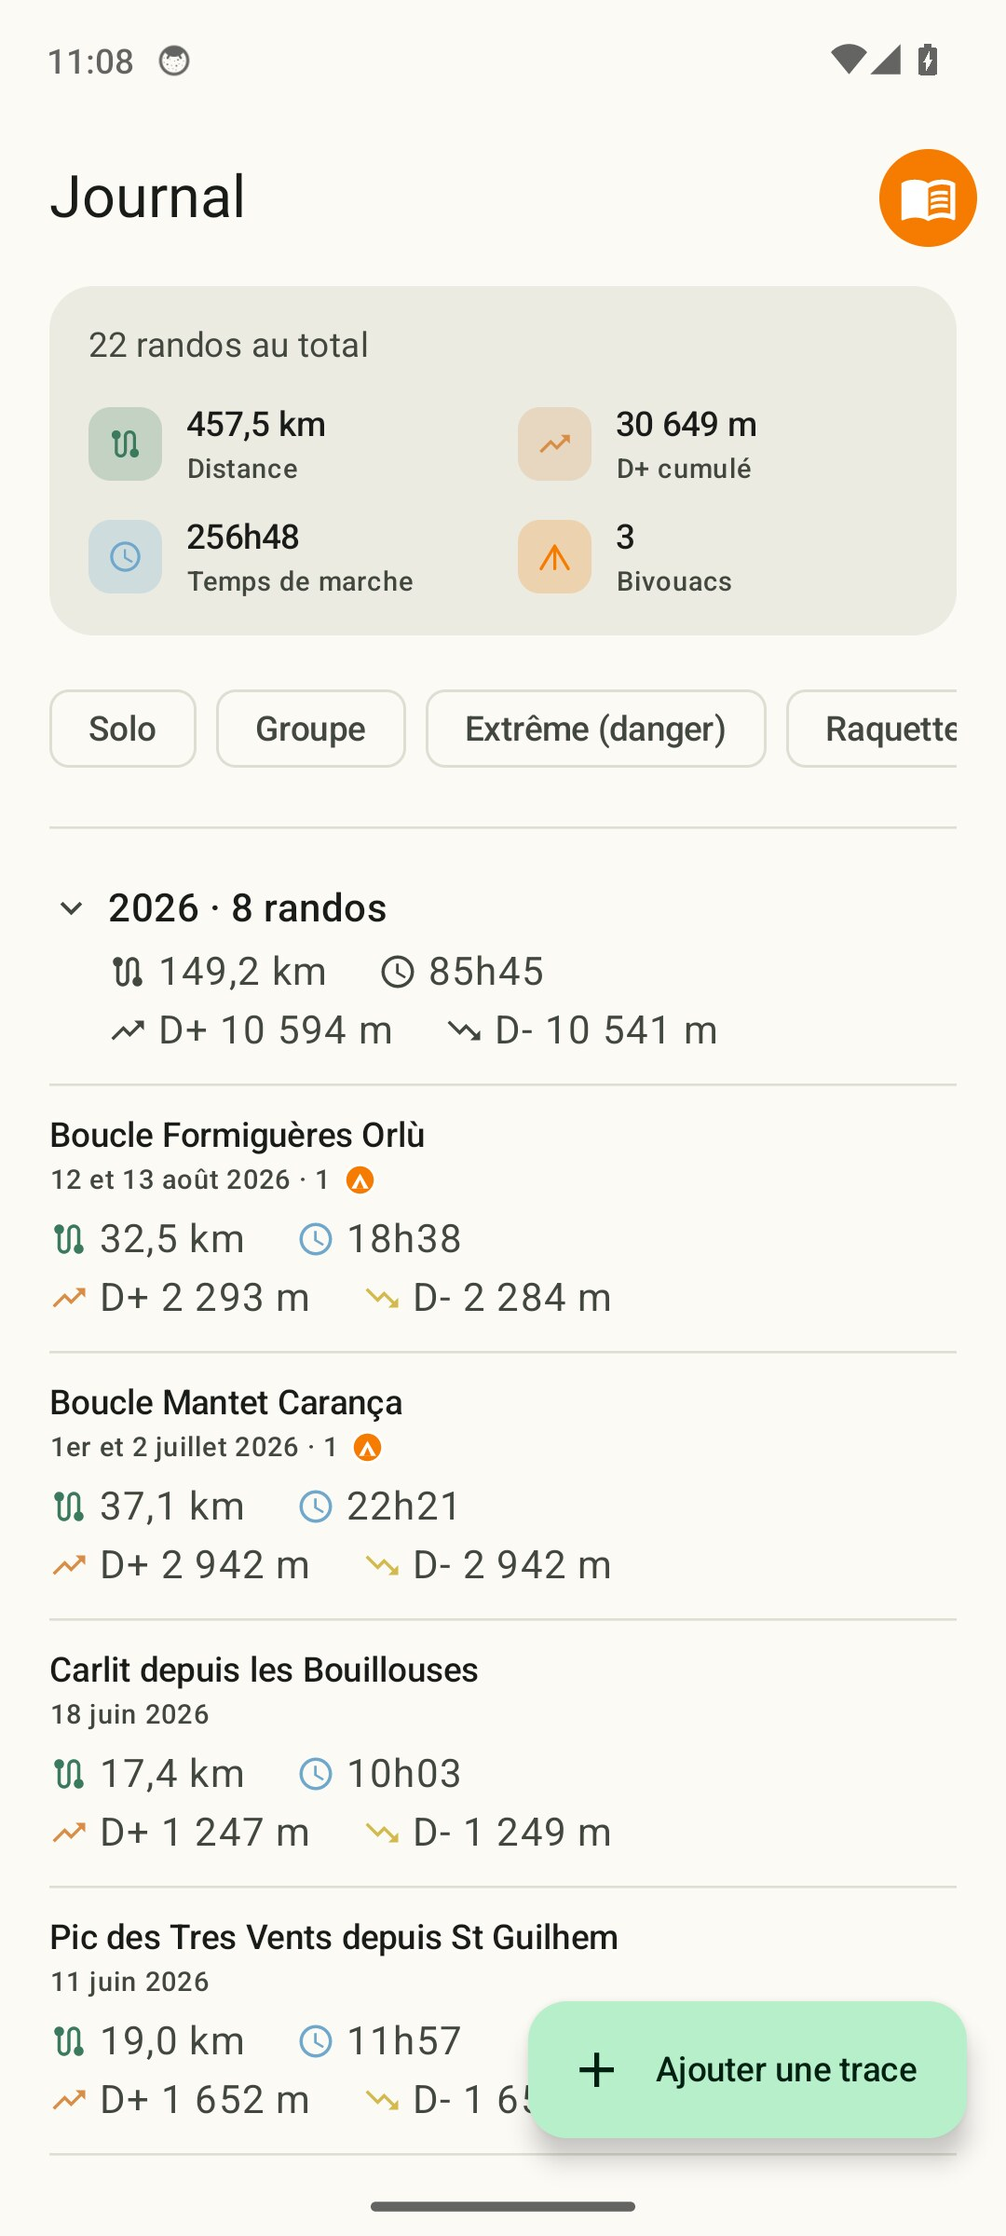
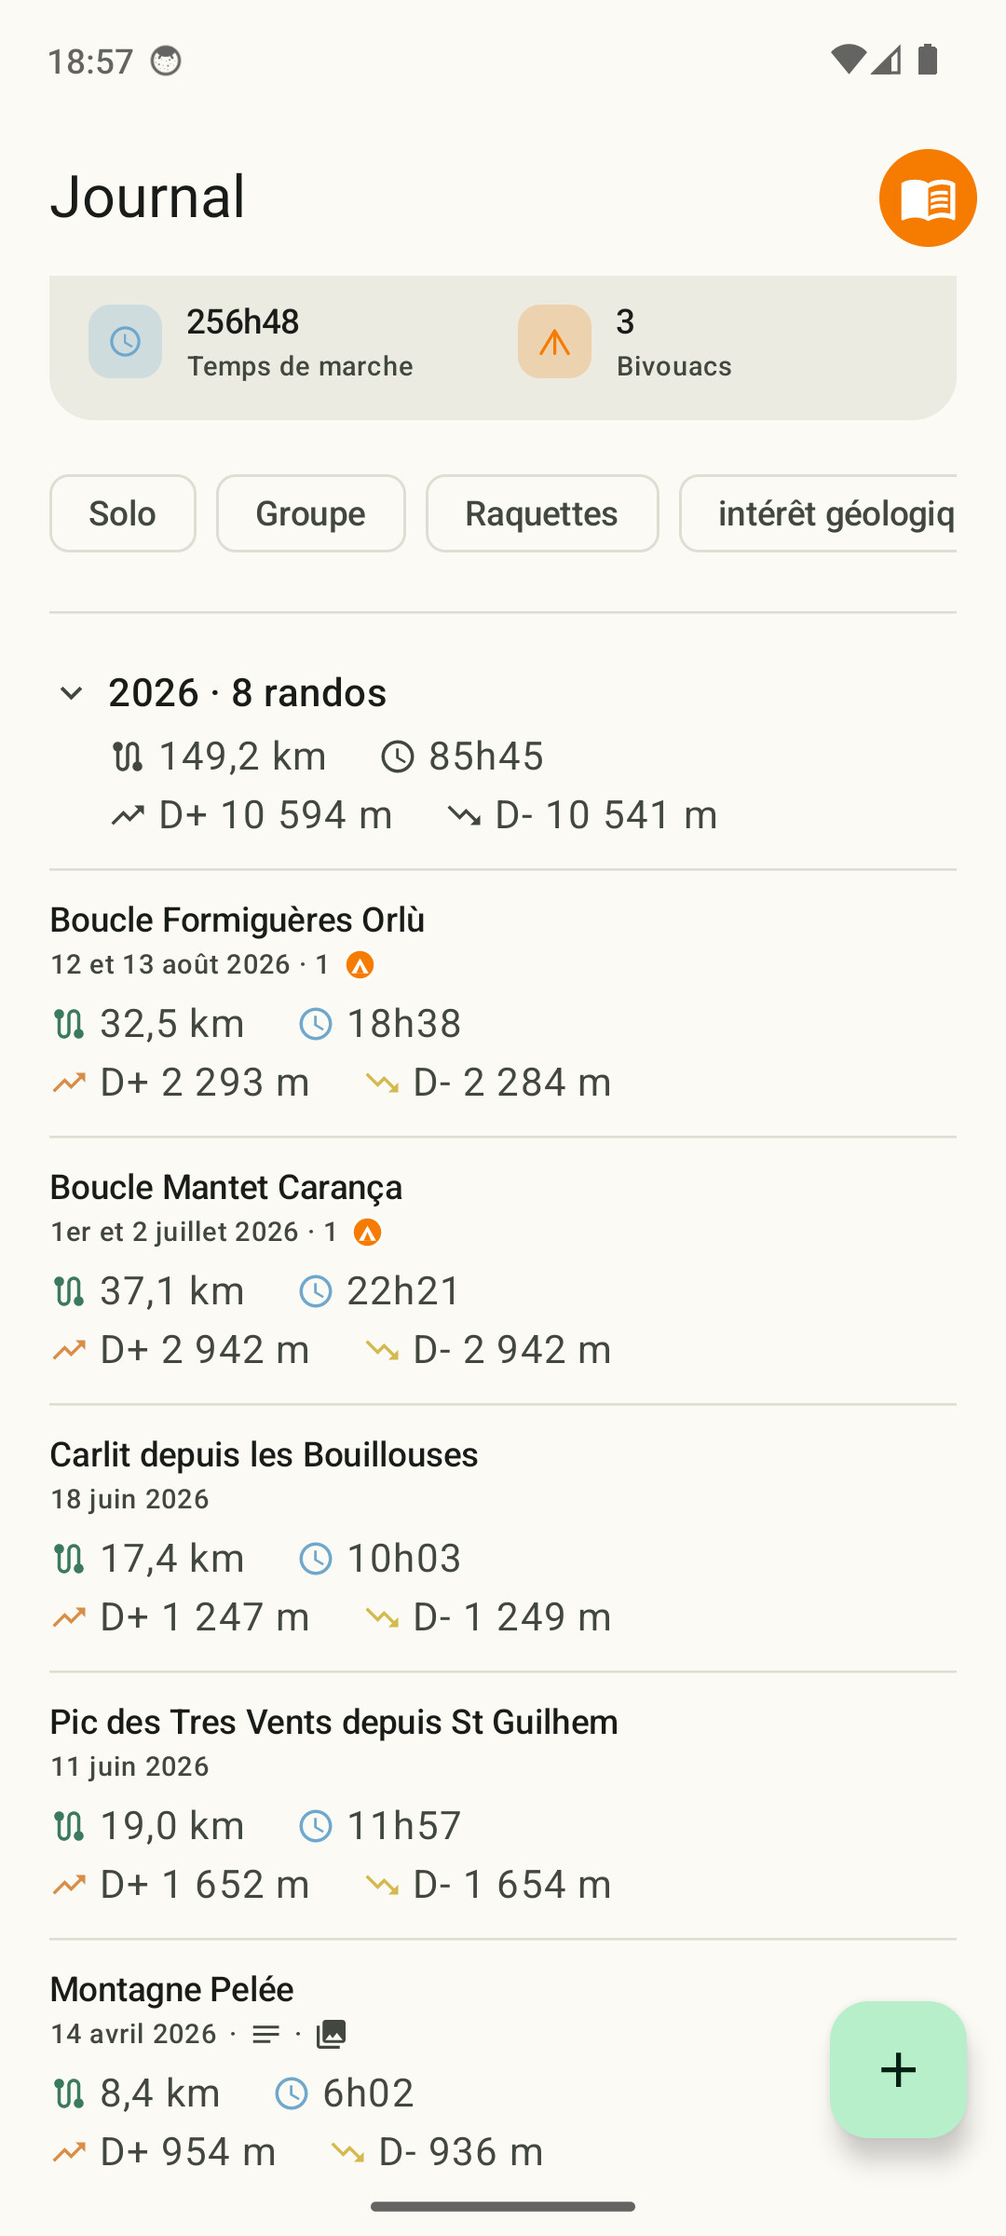
Release 2.3.0 : version, notes, description et captures
versionCode 11 / versionName 2.3.0, section V2.3.0 des notes de version,
changelog F-Droid 11.txt, description du store (manipulation et stockage des
photos), README (fonctionnalites, FAQ stockage, table de captures) et jeu de
captures refait sur l'emulateur avec la base de demo : liste du Journal avec
pictos, reglages photos, bulle avec legende, editeur Ajuster, mode placement,
espace utilise.

diff --git a/README.md b/README.md
@@ -10,46 +10,63 @@ journaliers (distance, dénivelé, durée estimée) qui se met à jour automatiq
   <tr>
     <td width="50%" align="center">
       <img src="screenshots/01_planification_carte.jpg" width="100%" alt="Planification : trace ouverte sur fond de carte Randonnée, profil altimétrique"><br>
-      <sub>Planification — trace sur fond de carte, profil altimétrique</sub>
+      <sub>Planification : trace sur fond de carte, profil altimétrique</sub>
     </td>
     <td width="50%" align="center">
       <img src="screenshots/02_planification_details.jpg" width="100%" alt="Planification : tiroir de détail, segments par jour"><br>
-      <sub>Planification — détail des segments par jour</sub>
+      <sub>Planification : détail des segments par jour</sub>
     </td>
   </tr>
   <tr>
     <td width="50%" align="center">
       <img src="screenshots/03_journal_liste.jpg" width="100%" alt="Journal : liste chronologique par année"><br>
-      <sub>Journal — liste chronologique par année</sub>
+      <sub>Journal : liste chronologique par année</sub>
     </td>
     <td width="50%" align="center">
       <img src="screenshots/04_journal_detail.jpg" width="100%" alt="Journal : détail d'une trace, photos, tags et note"><br>
-      <sub>Journal — détail d'une trace : photos, tags et note</sub>
+      <sub>Journal : détail d'une trace, photos, tags et note</sub>
     </td>
   </tr>
   <tr>
     <td width="50%" align="center">
       <img src="screenshots/07_journal_photos_carte.jpg" width="100%" alt="Journal : photos positionnées sur la trace, marqueurs sur la carte"><br>
-      <sub>Journal — photos positionnées sur la trace</sub>
+      <sub>Journal : photos positionnées sur la trace</sub>
     </td>
     <td width="50%" align="center">
-      <img src="screenshots/08_journal_photo_bulle.jpg" width="100%" alt="Journal : bulle photo avec distance, altitude et position sur le profil"><br>
-      <sub>Journal — bulle photo, position reportée sur le profil</sub>
+      <img src="screenshots/08_journal_photo_bulle.jpg" width="100%" alt="Journal : bulle photo avec distance, altitude, heure et légende"><br>
+      <sub>Journal : bulle photo, distance, altitude et légende</sub>
+    </td>
+  </tr>
+  <tr>
+    <td width="50%" align="center">
+      <img src="screenshots/09_ajuster.jpg" width="100%" alt="Journal : éditeur Ajuster, rotation et recadrage non destructifs d'une photo"><br>
+      <sub>Journal : Ajuster, rotation et recadrage non destructifs</sub>
+    </td>
+    <td width="50%" align="center">
+      <img src="screenshots/10_placement.jpg" width="100%" alt="Journal : repositionnement d'une photo par glisser le long de la trace, profil qui suit"><br>
+      <sub>Journal : repositionner une photo le long de la trace</sub>
     </td>
   </tr>
   <tr>
     <td width="50%" align="center">
       <img src="screenshots/05_bilan.jpg" width="100%" alt="Bilan : totaux, graphique de progression et records"><br>
-      <sub>Bilan — totaux, progression et records</sub>
+      <sub>Bilan : totaux, progression et records</sub>
     </td>
     <td width="50%" align="center">
-      <img src="screenshots/06_reglages.jpg" width="100%" alt="Réglages : photos du Journal, sauvegarde et crédits"><br>
-      <sub>Réglages — photos du Journal, sauvegarde, crédits</sub>
+      <img src="screenshots/06_reglages.jpg" width="100%" alt="Réglages : photos du Journal et mode de stockage, qualité d'origine ou poids allégé"><br>
+      <sub>Réglages : photos du Journal, mode de stockage</sub>
     </td>
+  </tr>
+  <tr>
+    <td width="50%" align="center">
+      <img src="screenshots/11_espace_utilise.jpg" width="100%" alt="Réglages : espace utilisé par les traces, les photos et la base, recompression proposée"><br>
+      <sub>Réglages : espace utilisé, recompression des photos</sub>
+    </td>
+    <td width="50%"></td>
   </tr>
 </table>
 
-## Fonctionnalités (V2.2.1)
+## Fonctionnalités (V2.3.0)
 
 **Planification :**
 
@@ -69,8 +86,14 @@ journaliers (distance, dénivelé, durée estimée) qui se met à jour automatiq
   d'une même sortie), liste chronologique par année, détail en lecture seule avec carte et profil
 - Note libre et tags par trace, filtrage par tag ; dupliquer une trace du Journal vers Planification
 - Photos associées à une randonnée : positionnées sur la trace grâce à leurs données GPS, marqueurs
-  sur la carte, carrousel dans la bulle, galerie de la sortie et visionneuse plein écran —
+  sur la carte, carrousel dans la bulle, galerie de la sortie et visionneuse plein écran ;
   fonctionnalité débrayable dans les Réglages (voir la FAQ pour les permissions)
+- Manipulation des photos : rotation et recadrage non destructifs, légende, repositionnement par
+  glisser le long de la trace, retour à la position GPS, retrait de la carte ; agrandissement des
+  candidates à l'import
+- Deux modes de stockage des photos : "Qualité d'origine" ou "Poids allégé" (copie réduite à
+  2048 px, environ dix fois plus légère), recompression du stock existant, écran de l'espace
+  utilisé (voir la FAQ)
 
 **Bilan :**
 
@@ -82,7 +105,8 @@ journaliers (distance, dénivelé, durée estimée) qui se met à jour automatiq
 
 - Vitesse personnalisée pour l'estimation de durée (manuelle, automatique, ou par sélection de
   traces), sauvegarde et restauration complètes des données, activation/désactivation des
-  fonctionnalités non libres et de la gestion des photos, purge des photos importées
+  fonctionnalités non libres et de la gestion des photos, mode de stockage des photos, espace
+  utilisé, purge des photos importées
 
 Détail complet des fonctionnalités par version, et limitations connues : [RELEASE_NOTES.md](RELEASE_NOTES.md).
 
@@ -93,7 +117,7 @@ Détail complet des fonctionnalités par version, et limitations connues : [RELE
 Oui, en partie. Les fonds de carte déjà consultés restent disponibles hors connexion : dès qu'une
 zone a été affichée une fois (par exemple en préparant ta rando chez toi), ses tuiles restent en
 cache sur le téléphone et se rechargent sans réseau. C'est pratique une fois sur le terrain, là où
-tu n'as souvent plus de réseau mobile — tu peux revoir la carte des zones déjà consultées, positionner
+tu n'as souvent plus de réseau mobile : tu peux revoir la carte des zones déjà consultées, positionner
 ou ajuster tes bivouacs, sans avoir besoin de connexion. Seules les zones jamais affichées auparavant
 resteront vides tant que tu n'as pas de réseau.
 
@@ -101,18 +125,18 @@ resteront vides tant que tu n'as pas de réseau.
 
 Bivouac peut calculer automatiquement ta vitesse de marche à plat et ta pénalité de dénivelé à
 partir de tes randonnées déjà présentes dans le Journal, plutôt que de te demander de les saisir
-toi-même. Ce calcul répartit le temps mis sur une rando entre deux facteurs distincts — la distance
-parcourue à plat, et le dénivelé grimpé — un peu comme résoudre une équation à deux inconnues. Avec
+toi-même. Ce calcul répartit le temps mis sur une rando entre deux facteurs distincts, la distance
+parcourue à plat et le dénivelé grimpé, un peu comme résoudre une équation à deux inconnues. Avec
 une seule randonnée, il n'y a pas assez d'information pour les séparer : impossible de savoir si tu
 as mis du temps parce que le terrain était plat mais long, ou court mais très pentu. Il faut au
-moins deux randonnées différentes pour que le calcul ait un sens — c'est pourquoi les modes Auto et
+moins deux randonnées différentes pour que le calcul ait un sens : c'est pourquoi les modes Auto et
 Sélection restent grisés tant que ton Journal (ou ta sélection de traces) n'en contient pas au moins
 deux.
 
 ### Comment le calcul automatique de vitesse fonctionne-t-il, et pourquoi peut-il être optimiste ?
 
 Plutôt que de faire une moyenne globale par rando, Bivouac découpe chacune de tes randonnées en
-petits tronçons pour séparer ce qui relève de l'allure à plat de ce qui relève du dénivelé — plus
+petits tronçons pour séparer ce qui relève de l'allure à plat de ce qui relève du dénivelé, plus
 précis qu'une simple moyenne, surtout si tes randos varient beaucoup en profil. Les moments passés
 à l'arrêt (pause, photo, casse-croûte) sont automatiquement écartés de ce calcul, pour qu'une longue
 pause ne fasse pas croire que tu marches lentement.
@@ -120,12 +144,12 @@ pause ne fasse pas croire que tu marches lentement.
 Ce même souci de précision explique un choix qui peut surprendre : la pénalité de dénivelé ne
 distingue pas montée et descente. Sur des boucles (l'immense majorité des randos), les deux sont si
 étroitement corrélées qu'un facteur séparé n'apporterait aucune précision réelle, juste du bruit
-statistique sur un chiffre supplémentaire — mieux vaut un seul facteur robuste que deux
+statistique sur un chiffre supplémentaire : mieux vaut un seul facteur robuste que deux
 approximatifs.
 
 Pour la marge de pause justement : les Réglages (Vitesse personnalisée) proposent un curseur dédié
 qui ajoute une provision de temps aux estimations, réglable manuellement ou mesurée automatiquement
-sur le Journal/la sélection selon le mode choisi — sans lui, les estimations tendent à être
+sur le Journal/la sélection selon le mode choisi : sans lui, les estimations tendent à être
 optimistes, l'écart grandissant avec le nombre de pauses prévisibles.
 
 ### Pourquoi l'app demande-t-elle l'accès aux photos ET à leur localisation ?
@@ -135,10 +159,22 @@ Or le sélecteur de photos standard d'Android, pensé pour que les apps n'accèd
 minimum, supprime justement cette position des photos qu'il transmet. Bivouac utilise donc son
 propre écran de sélection, ce qui demande deux permissions : la lecture des images (celle que
 demande toute app de galerie), et l'accès à la localisation des médias (celle qui préserve la
-position GPS). Les deux ne sont demandées qu'au premier usage de la fonctionnalité photos — jamais
-si tu ne t'en sers pas — et l'accès partiel d'Android 14+ ("autoriser seulement certaines photos")
+position GPS). Les deux ne sont demandées qu'au premier usage de la fonctionnalité photos, jamais
+si tu ne t'en sers pas, et l'accès partiel d'Android 14+ ("autoriser seulement certaines photos")
 est géré. La fonctionnalité est entièrement désactivable dans les Réglages, et les photos ne
 quittent jamais l'appareil.
+
+### Qualité d'origine ou poids allégé : quel mode de stockage des photos choisir ?
+
+Bivouac garde sa propre copie de chaque photo associée à une randonnée, pour ne pas dépendre de
+la galerie. En "Qualité d'origine", cette copie est identique à la photo de la galerie (souvent
+3 à 5 Mo par photo). En "Poids allégé", elle est réduite à 2048 px de côté, environ dix fois plus
+légère, ce qui reste largement suffisant pour l'écran d'un téléphone. Dans ce mode, la
+visionneuse plein écran va chercher l'original dans la galerie tant qu'il y est encore, donc rien
+n'est perdu à l'affichage. Les nouvelles installations démarrent en poids allégé ; si tu avais
+déjà des photos, l'app te propose le choix au premier lancement, et les photos déjà importées
+peuvent être recompressées depuis les Réglages. L'écran "Espace utilisé" des Réglages montre ce
+que prennent les traces et les photos.
 
 ### Mes randonnées partent-elles dans une sauvegarde cloud Google ?
 
@@ -175,12 +211,12 @@ Ce projet est distribué sous licence [GPLv3](LICENSE).
 ## Pourquoi open source ?
 
 Ce projet a démarré comme un outil perso pour ne plus perdre mes bivouacs sur un coin de carte, et
-il a pris de l'ampleur sans prévenir. Ne vous attendez pas à du code exemplaire, mais ça tourne —
+il a pris de l'ampleur sans prévenir. Ne vous attendez pas à du code exemplaire, mais ça tourne,
 et si ça peut servir à quelqu'un d'autre, tant mieux. Indulgence et retours bienvenus.
 
 ## Statut
 
-V2.2.1 fonctionnelle. Développement actif.
+V2.3.0 fonctionnelle. Développement actif.
 
 ## Développement
 

diff --git a/RELEASE_NOTES.md b/RELEASE_NOTES.md
@@ -1,18 +1,66 @@
-# Bivouac — Notes de version
+# Bivouac : notes de version
+
+## V2.3.0
+
+**Journal, photos : stockage à deux modes (nouveau) :**
+
+- Choix dans les Réglages entre "Qualité d'origine" (copie identique à la photo de la galerie) et
+  "Poids allégé" (copie réduite à 2048 px, environ dix fois plus légère). Les nouvelles
+  installations démarrent en poids allégé ; les installations qui ont déjà des photos reçoivent une
+  proposition au premier lancement (choisir maintenant, plus tard, ou ne plus voir)
+- Recompression des photos déjà importées : proposée à la bascule vers le mode allégé, disponible
+  ensuite dans les Réglages. Chaque photo est remplacée de façon sûre (nouveau fichier, bascule,
+  puis suppression de l'ancien)
+- En mode allégé, la visionneuse plein écran affiche l'original de la galerie quand il est encore
+  sur le téléphone (montée en qualité transparente)
+- Écran "Espace utilisé" dans les Réglages : traces, photos, reste
+- Photos manquantes après une restauration : retrouvées automatiquement dans la galerie quand
+  l'original y est encore
+
+**Journal, photos : manipulation (nouveau) :**
+
+- "Ajuster" une photo : rotation par quarts de tour et recadrage (coins à proportions conservées,
+  côtés libres, déplacement du cadre), non destructif et appliqué à toutes les vues ; bouton
+  Réinitialiser
+- Visionneuse plein écran en mode édition : barre d'actions Ajuster / Position / Supprimer, légende
+  modifiable d'un tap
+- Position : repositionner une photo en la faisant glisser le long de la trace (le tiroir descend
+  sur la carte, le profil altimétrique suit, Annuler ou Terminé), revenir à la position GPS ou à la
+  position déduite de l'heure de prise de vue, retirer une photo de la carte et l'y replacer (badge
+  dans la grille)
+- Légende par photo, affichée dans la visionneuse et dans la bulle de la carte
+- Import : agrandir une photo candidate avant de la choisir, sélection par tap dans la visionneuse
+- Un tap sur un groupe de photos sur la carte ouvre tout le groupe dans le carrousel de la bulle,
+  et le curseur suit le balayage
+
+**Améliorations :**
+
+- Flèches de direction recalculées selon le zoom et le cadrage, sur tous les jours d'un trek
+- Pictos "a une note" et "a des photos" sur chaque ligne du Journal
+- Dialogue dédié quand une duplication vers Planification attend derrière la fermeture d'une trace
+
+**Bugfixes :**
+
+- Plusieurs fichiers GPX partagés vers Planification : le choix est désactivé au lieu de perdre en
+  silence tous les fichiers après le premier
+- Correction de la double instance de l'app quand un GPX est ouvert depuis une autre application
+- Désactivation de la connexion réseau au premier démarrage sans aucune interaction (une tuile était
+  chargée pour une carte encore invisible)
+- Badges de vignette (position approximative, retirée de la carte) désormais lisibles
 
 ## V2.2.1
 
 **Bugfix critique :**
 
 - Sur Android 8 à 13, l'import d'une trace GPX échouait systématiquement ("Trace incorrecte ou
-  fichier illisible"), rendant l'app inutilisable sur ces versions — l'app ne fonctionnait
+  fichier illisible"), rendant l'app inutilisable sur ces versions : l'app ne fonctionnait
   en pratique que sur Android 14+. Corrigé (bibliothèque de lecture GPX s'appuyant sur une API
   Java absente des Android antérieurs, désormais fournie par l'app elle-même). Merci au testeur
   bénévole de la revue F-Droid qui a découvert et documenté le problème.
 
 ## V2.2.0
 
-**Journal — photos (nouveau) :**
+**Journal, photos (nouveau) :**
 
 - Associer des photos de la galerie du téléphone à une randonnée du Journal : positionnées
   automatiquement sur la trace grâce à leurs données GPS, marqueurs sur la carte, carrousel à
@@ -39,13 +87,13 @@
 **Bugfixes :**
 
 - Le profil d'altitude d'une trace restait entièrement vide dès qu'un seul point du GPX n'avait
-  pas d'altitude — les trous sont désormais comblés par interpolation
+  pas d'altitude : les trous sont désormais comblés par interpolation
 
 ## V2.1.0
 
 **Bilan (nouveau) :**
 
-- Nouvel onglet Bilan : vue d'ensemble du Journal — totaux cumulés, graphique de progression
+- Nouvel onglet Bilan : vue d'ensemble du Journal : totaux cumulés, graphique de progression
   mensuelle (sorties, km, D+, vitesse, bivouacs) sur tout l'historique, et tes records personnels
   (km-effort, vitesse ascensionnelle, altitude max atteinte, bivouac le plus haut, plus gros trek...).
   Chaque record renvoie directement à la sortie concernée dans le Journal.
@@ -60,7 +108,7 @@
 - Planification : au tout premier lancement de l'app, l'écran "Aucune trace en préparation" pouvait
   s'afficher brièvement même quand une session précédente était sur le point d'être restaurée
 - Planification : après avoir tué puis relancé l'app sur une trace déjà enregistrée en banque, fermer
-  l'écran redemandait à tort une confirmation de sauvegarde — et sauvegarder à cette invite dupliquait
+  l'écran redemandait à tort une confirmation de sauvegarde, et sauvegarder à cette invite dupliquait
   la trace au lieu de simplement fermer
 
 ## V2.0.2
@@ -74,14 +122,14 @@
 **Bugfixes :**
 
 - Le calcul automatique de pénalité D+ (Auto/Sélection) pouvait être surestimé quand un arrêt était
-  pris en pleine montée — désormais exclu du calcul, comme c'était déjà le cas sur terrain plat
+  pris en pleine montée : désormais exclu du calcul, comme c'était déjà le cas sur terrain plat
 - Duplication d'une trace du Journal vers Planification : le dialogue de renommage pouvait se
   refermer tout seul avant d'avoir pu taper un nom
 - Planification : un trek multi-jours dupliqué depuis le Journal, dont l'enregistrement s'était
   arrêté loin du bivouac un soir, pouvait afficher un trajet fictif sur la carte et gonfler la
-  distance totale affichée — même correctif que celui déjà appliqué au Journal
+  distance totale affichée : même correctif que celui déjà appliqué au Journal
 - Une trace mono-jour sans aucun point de bivouac posé n'avait aucun moyen d'export GPX depuis
-  Planification — ajouté au menu de la trace
+  Planification, ajouté au menu de la trace
 - Ouvrir une trace de la banque devenue illisible affichait un écran d'erreur qui faisait
   disparaître le reste de la liste ; affiche désormais un message ponctuel, sans perturber le reste
 - Journal : mise en page de la ligne de bivouac (police des heures, icône) alignée sur le reste de
@@ -95,7 +143,7 @@
 
 - Le calcul automatique de vitesse/pénalité D+ (Réglages, mode Auto ou Sélection) pouvait varier
   fortement selon les randonnées présentes dans le Journal ou la sélection, surtout avec peu de
-  randonnées (une dizaine ou moins) — corrigé par un calcul plus robuste, à l'intérieur de chaque
+  randonnées (une dizaine ou moins) : corrigé par un calcul plus robuste, à l'intérieur de chaque
   randonnée plutôt qu'en comparant les randonnées entre elles.
 
 ## V2.0
@@ -197,7 +245,7 @@
 
 - Import d'une trace directement depuis une autre application (ouverture d'un fichier `.gpx` ou
   partage vers l'app), en plus du sélecteur système
-- Sélecteur de fonds de carte (Standard, Randonnée OpenTopoMap, Satellite Esri World Imagery —
+- Sélecteur de fonds de carte (Standard, Randonnée OpenTopoMap, Satellite Esri World Imagery,
   Randonnée par défaut)
 - Bouton de recentrage sur la trace, qui tient compte de la zone effectivement visible au-dessus
   du tiroir (pas centré sur tout l'écran s'il est en partie masqué)
